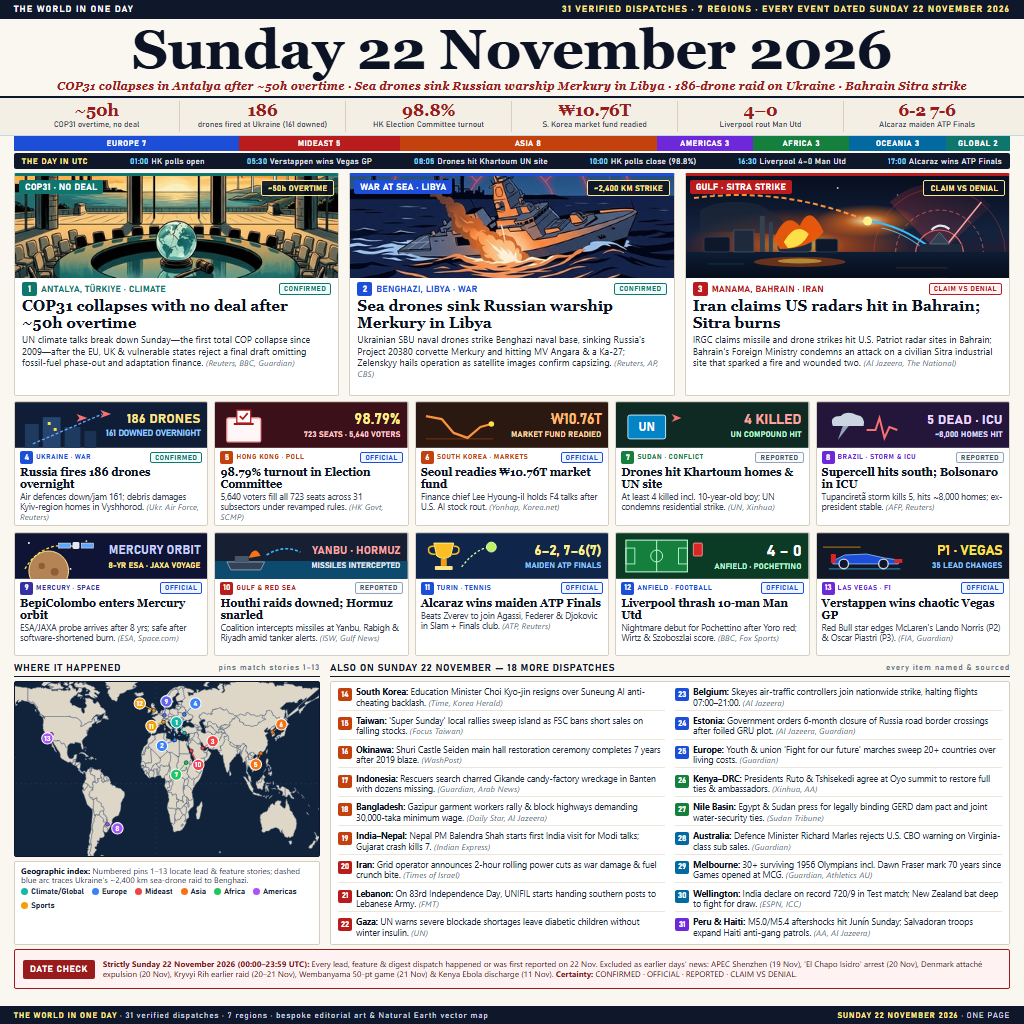
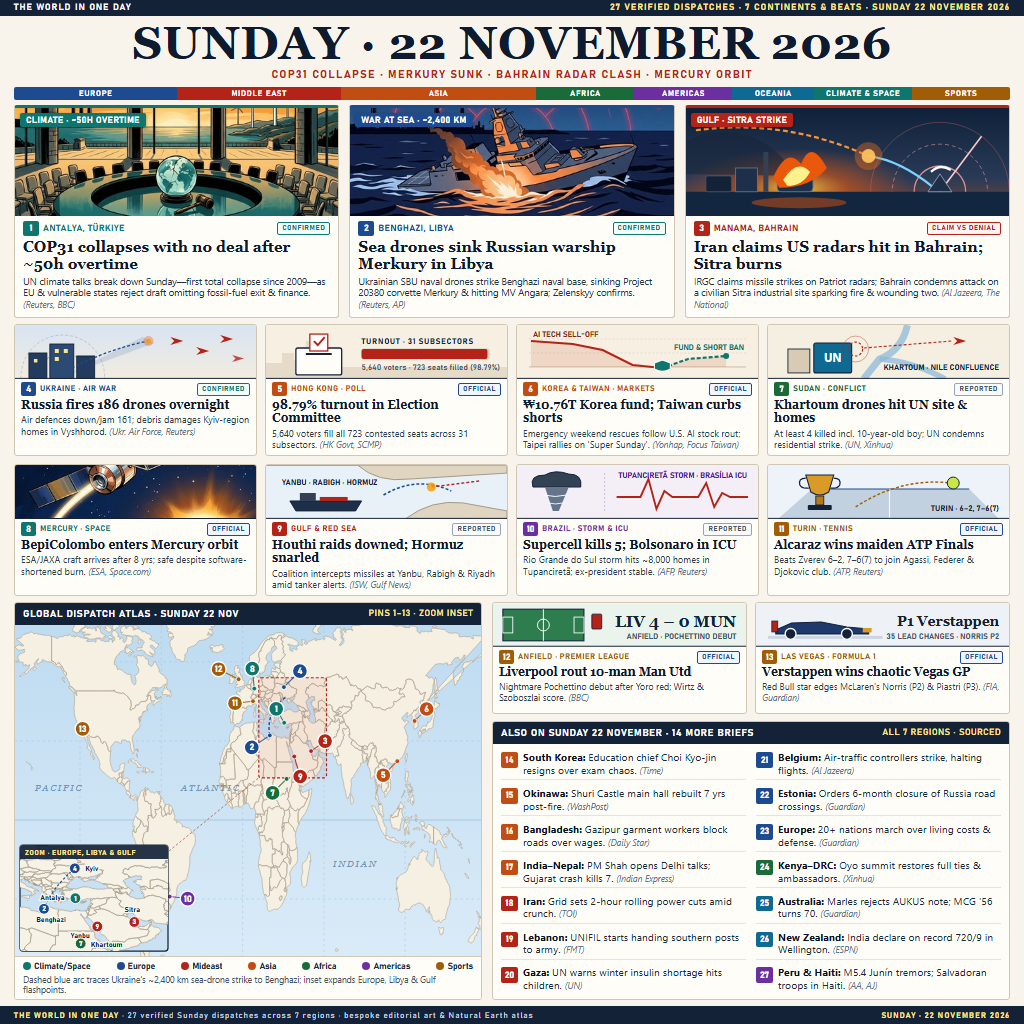
V8 unified editorial atlas: expanded world map with Europe/Libya/Gulf inset, warm-paper fine-ink cards & crisp 300px briefs

diff --git a/README.md b/README.md
@@ -4,7 +4,7 @@
 [![rank](https://make.fun/badge/news-image-20261122/smartmita/news-image-20261122/rank.svg)](https://make.fun/bounty/news-image-20261122/leaderboard?utm_source=github&utm_medium=readme&utm_campaign=news-image-20261122)
 [![reward](https://make.fun/badge/news-image-20261122/smartmita/news-image-20261122/reward.svg)](https://make.fun/bounty/news-image-20261122?utm_source=github&utm_medium=readme&utm_campaign=news-image-20261122)
 
-A 1024×1024 illustrated Sunday, 22 November 2026 global broadsheet front page featuring a giant 300px-legible date masthead, key-numbers ribbon, UTC timeline, three major lead stories (COP31 Antalya's ~50-hour overtime collapse without a deal, Ukraine's sea-drone sinking of Russian corvette *Merkury* in Benghazi, and Iran's disputed Bahrain radar strike claim alongside the Sitra industrial fire), ten unified dark-editorial illustrated feature cards (Russia's 186-drone barrage, Hong Kong's 98.79% Election Committee turnout, South Korea's ₩10.76T emergency market fund, Khartoum UN-compound drone strikes, Brazil's Rio Grande do Sul supercell & Bolsonaro ICU update, ESA/JAXA BepiColombo entering Mercury orbit, Houthi raids intercepted over Saudi Arabia & Strait of Hormuz disruption, Alcaraz winning his maiden ATP Finals, Liverpool routing Manchester United 4–0, and Verstappen winning the Las Vegas Grand Prix), a high-contrast dark-ocean Natural Earth vector world map, 18 additional sourced Sunday dispatches across all 7 regions (31 total), and an explicit single-day Date Check & certainty legend.
+A 1024×1024 illustrated Sunday, 22 November 2026 global front-page world news atlas uniting a crisp full-width date masthead, three lead stories (COP31 Antalya's ~50-hour overtime collapse without a deal, Ukraine's sea-drone sinking of Russian corvette *Merkury* in Benghazi, and Iran's disputed Bahrain Patriot radar strike claim alongside the Sitra industrial blaze), ten cohesive warm-newsprint editorial feature cards (Russia's 186-drone barrage, Hong Kong's 98.79% Election Committee poll, South Korea's ₩10.76T market fund & Taiwan short-sale curbs, Khartoum UN-compound drone strikes, ESA/JAXA BepiColombo entering Mercury orbit, Houthi raids intercepted over Saudi Arabia & Strait of Hormuz disruption, Brazil's Rio Grande do Sul supercell & Bolsonaro ICU update, Alcaraz winning his maiden ATP Finals, Liverpool routing Manchester United 4–0, and Verstappen winning the Las Vegas Grand Prix), a prominent luminous Natural Earth world atlas with an expanded Europe/Libya/Gulf inset, and 14 crisp large-type sourced briefs covering all 7 regions (27 verified Sunday dispatches in total).
 
 ## Run it
 
